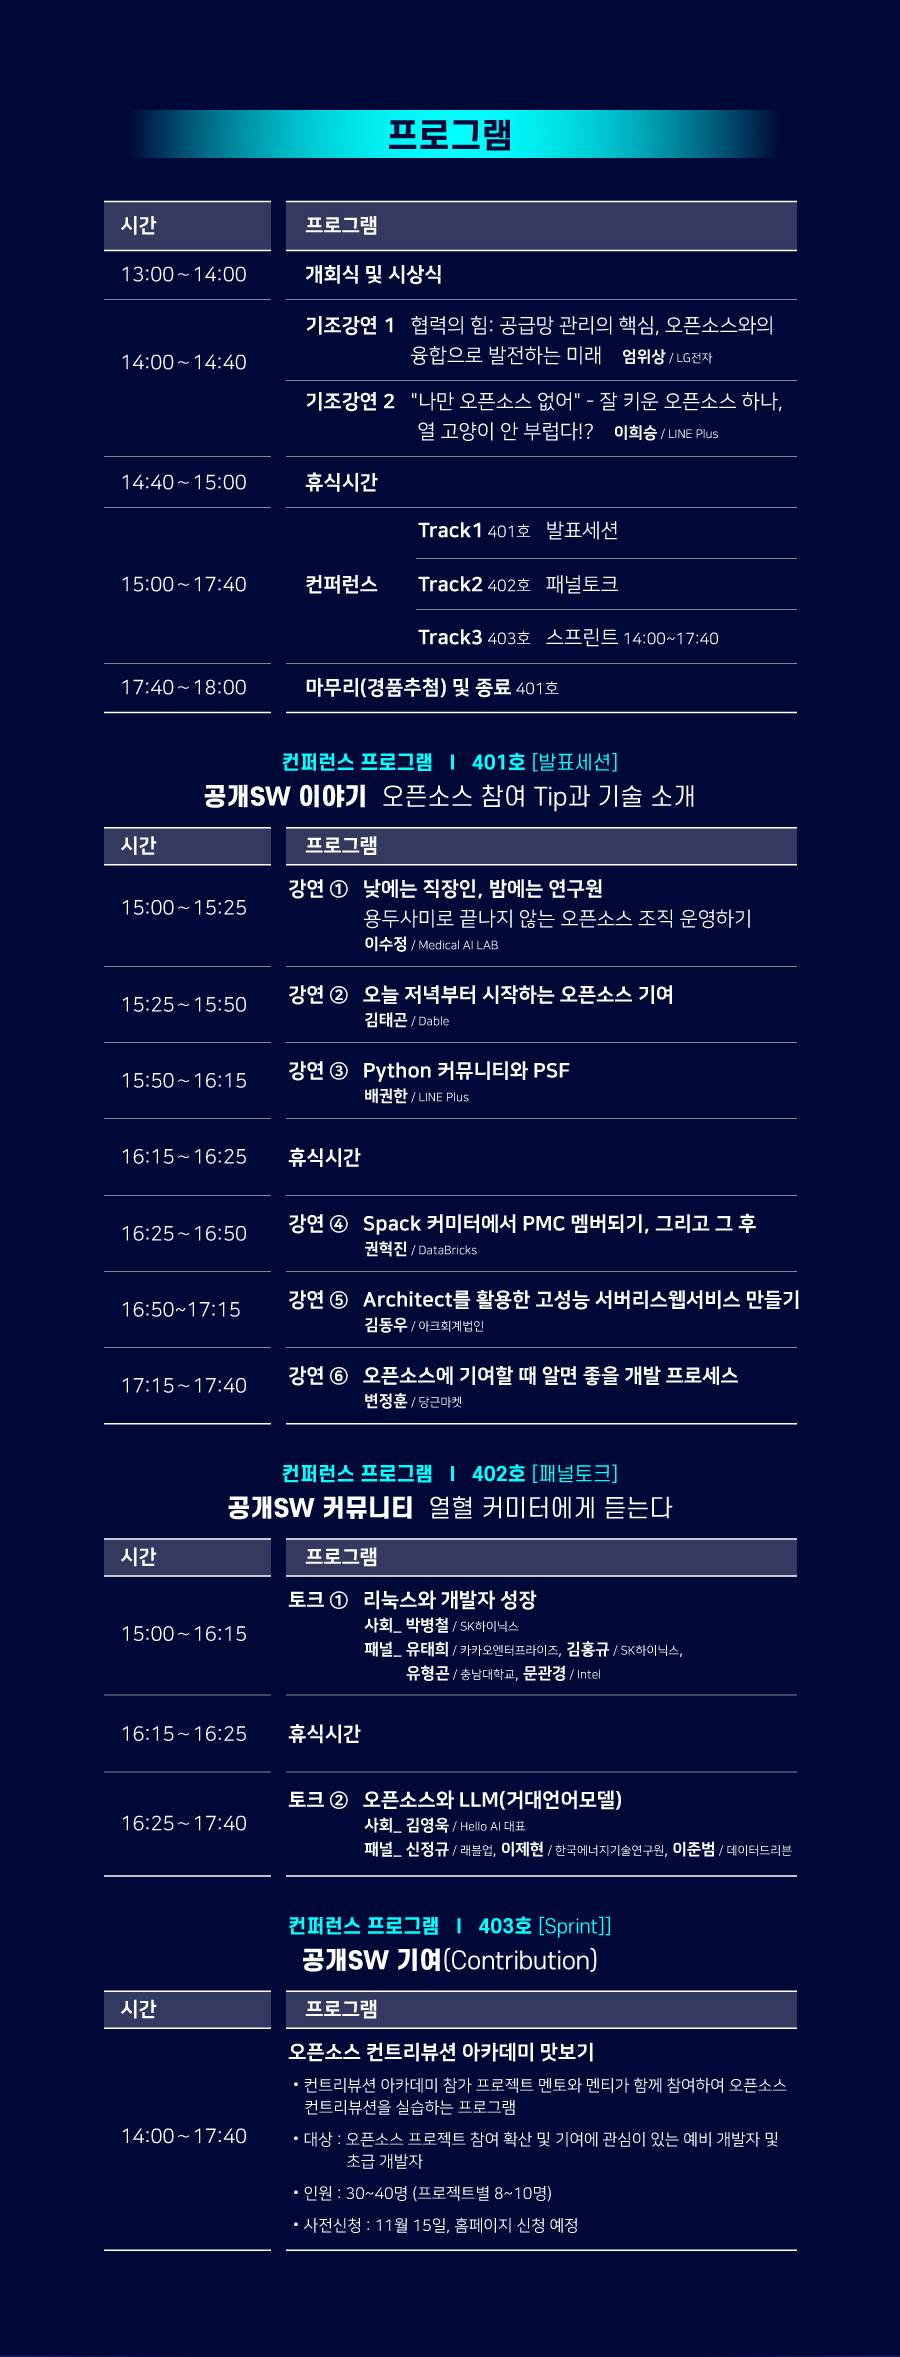
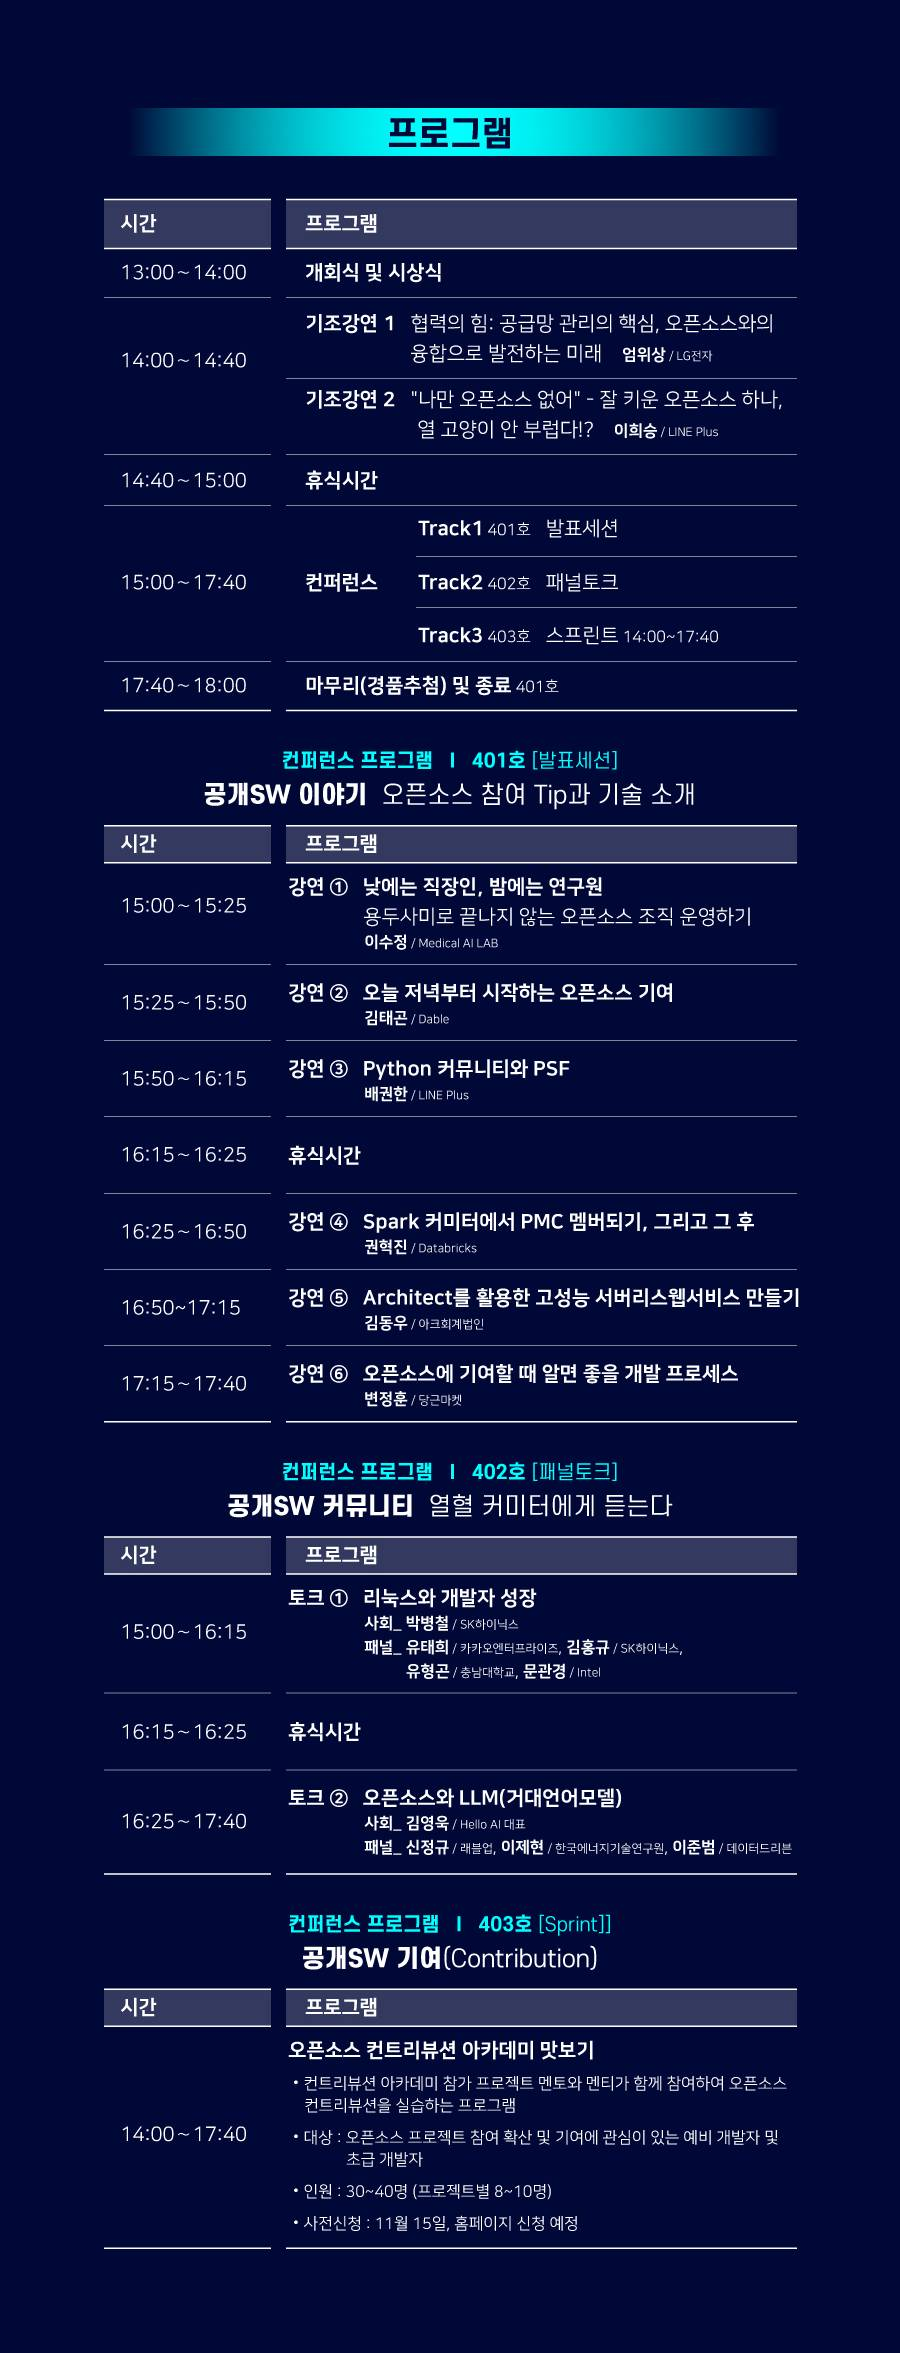
프로그램 이미지 변경(Spark)

diff --git a/src/pages/Home/HomeArea/HomeArea.js b/src/pages/Home/HomeArea/HomeArea.js
@@ -10,9 +10,8 @@ const HomeArea = () => {
                     <div className="home__content">
                         <Image
                             maskClassName="imgBox"
-                            movable={true}
-                            src='assets/img/openSW/openSW-program.jpg' // 이미지 URL을 넣으세요
-                            preview={{src: "assets/img/openSW/openSW-program.jpg"}} // 클릭할 때만 확대되도록 설정
+                            src='assets/img/edm/231109/edm-231109-5.jpg' // 이미지 URL을 넣으세요
+                            preview={{src: "assets/img/edm/231109/edm-231109-5.jpg"}} // 클릭할 때만 확대되도록 설정
                         />
                     </div>
                 </div>
